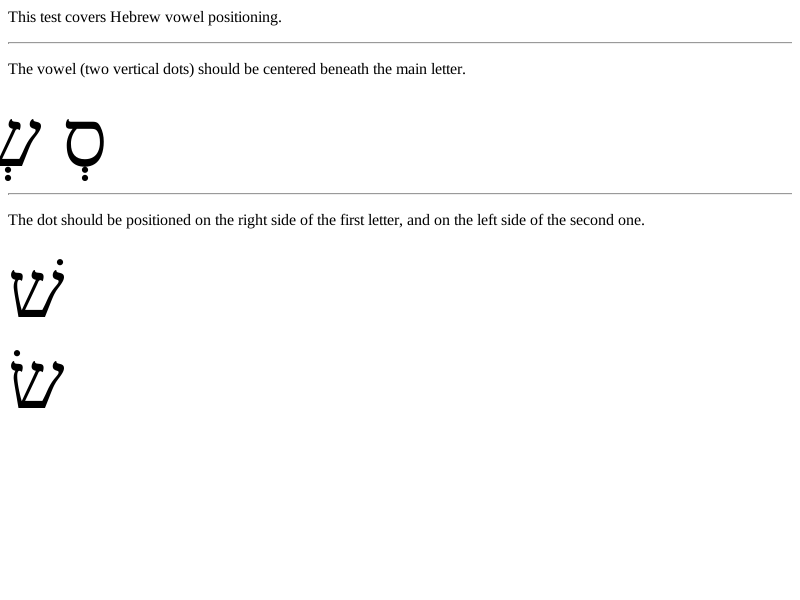
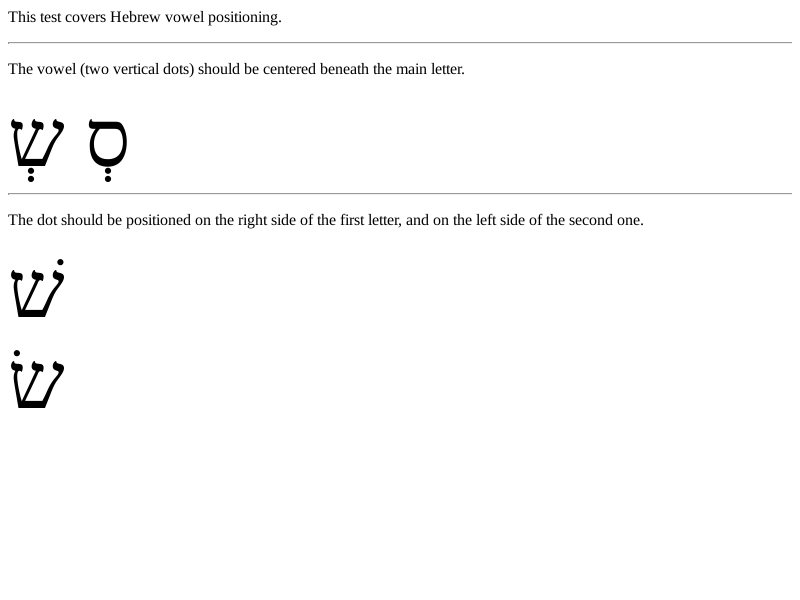
[FreeType] Incorrect application of glyph positioning in the Y direction https://bugs.webkit.org/show_bug.cgi?id=161493
Reviewed by Michael Catanzaro.

Source/WebCore:

Use the first glyph origin as the initial advance of every complex text run.

* platform/graphics/cairo/FontCairo.cpp:
(WebCore::FontCascade::drawGlyphs): Update the yOffset using the height advance.
* platform/graphics/cairo/GraphicsContextImplCairo.cpp:
(WebCore::GraphicsContextImplCairo::drawGlyphs): Ditto.
* platform/graphics/harfbuzz/ComplexTextControllerHarfBuzz.cpp:
(WebCore::ComplexTextController::ComplexTextRun::ComplexTextRun): Set the initial advance.

LayoutTests:

Rebaseline fast/text/international/hebrew-vowels.html.

* platform/gtk/fast/text/international/hebrew-vowels-expected.png:
* platform/gtk/fast/text/international/hebrew-vowels-expected.txt:

git-svn-id: https://svn.webkit.org/repository/webkit/trunk@243602 268f45cc-cd09-0410-ab3c-d52691b4dbfc

Changed region(s): [[0.0, 0.18, 0.1562, 0.3], [0.5, 0.36, 0.8125, 0.39]]

diff --git a/Source/WebCore/platform/graphics/harfbuzz/ComplexTextControllerHarfBuzz.cpp b/Source/WebCore/platform/graphics/harfbuzz/ComplexTextControllerHarfBuzz.cpp
@@ -168,6 +168,9 @@ ComplexTextController::ComplexTextRun::ComplexTextRun(hb_buffer_t* buffer, const
         float advanceX = harfBuzzPositionToFloat(glyphPositions[i].x_advance);
         float advanceY = harfBuzzPositionToFloat(glyphPositions[i].y_advance);
 
+        if (!i)
+            m_initialAdvance = { offsetX, -offsetY };
+
         m_glyphs[i] = glyph;
         m_baseAdvances[i] = { advanceX, advanceY };
         m_glyphOrigins[i] = { offsetX, offsetY };

diff --git a/Source/WebCore/platform/graphics/cairo/GraphicsContextImplCairo.cpp b/Source/WebCore/platform/graphics/cairo/GraphicsContextImplCairo.cpp
@@ -248,6 +248,7 @@ void GraphicsContextImplCairo::drawGlyphs(const Font& font, const GlyphBuffer& g
         for (size_t i = 0; i < numGlyphs; ++i) {
             glyphs[i] = { glyphsData[i], xOffset, yOffset };
             xOffset += advances[i].width();
+            yOffset -= advances[i].height();
         }
     }
 

diff --git a/Source/WebCore/platform/graphics/cairo/FontCairo.cpp b/Source/WebCore/platform/graphics/cairo/FontCairo.cpp
@@ -65,6 +65,7 @@ void FontCascade::drawGlyphs(GraphicsContext& context, const Font& font, const G
         for (size_t i = 0; i < numGlyphs; ++i) {
             glyphs[i] = { glyphsData[i], xOffset, yOffset };
             xOffset += advances[i].width();
+            yOffset -= advances[i].height();
         }
     }
 
